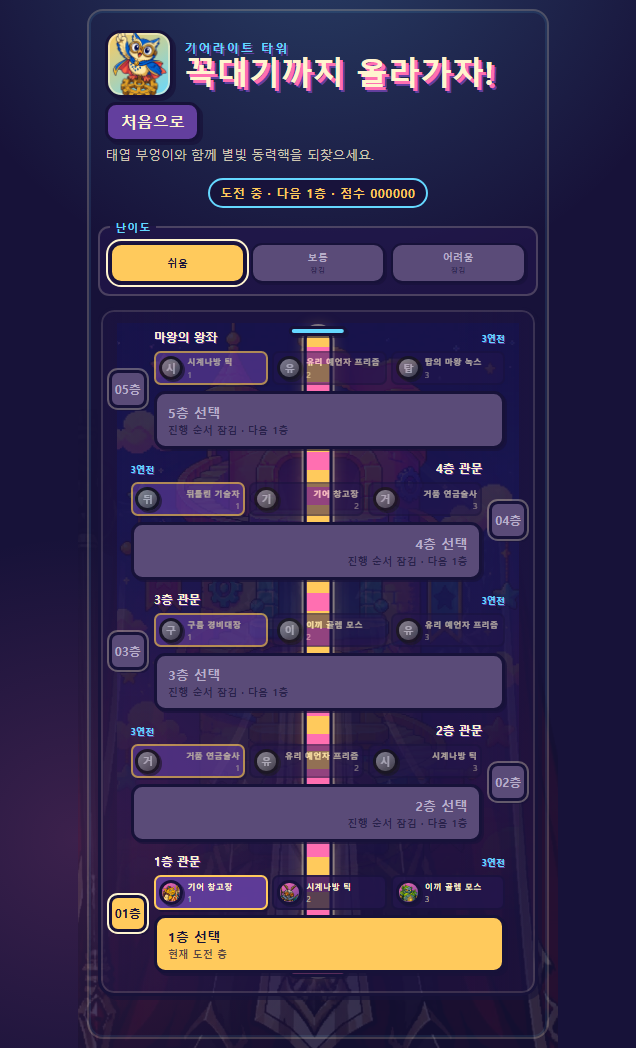
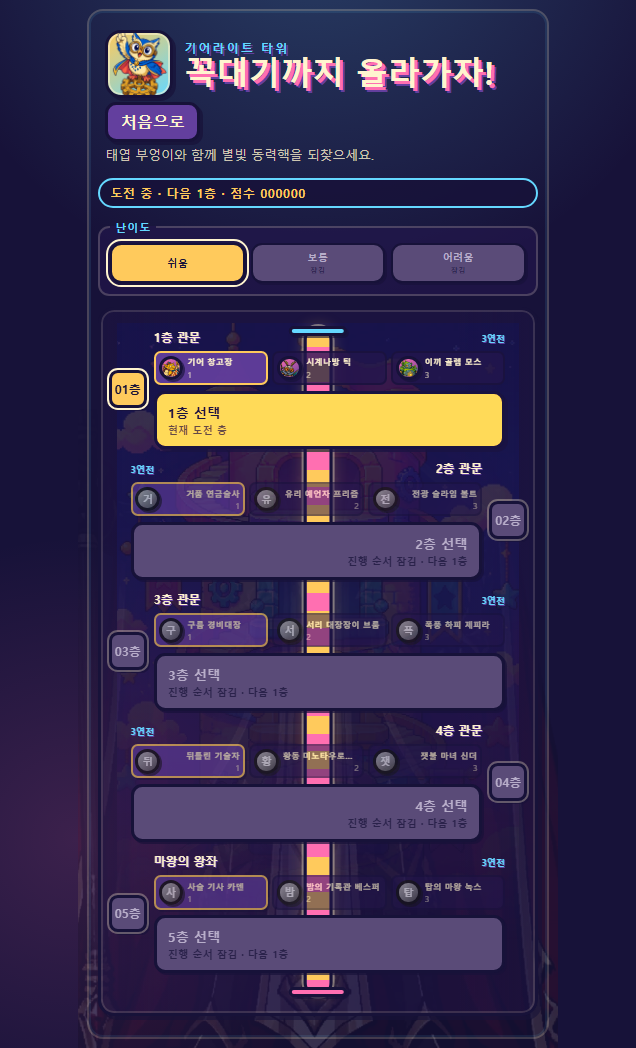
fix: start tower at floor one

diff --git a/src/ui/screens/TowerScreen.tsx b/src/ui/screens/TowerScreen.tsx
@@ -120,67 +120,70 @@ export function TowerScreen({
       </fieldset>
       <div
         aria-label="타워 층 선택"
-        className="floor-list tower-route tower-route--ascending"
+        className="floor-list tower-route tower-route--ascending tower-route--scrollable"
         data-testid="tower-route"
+        tabIndex={0}
       >
-        <ScreenBackdrop
-          className="screen-backdrop--tower-route"
-          image={commonAssets?.towerBackdrop}
-        />
-        <span aria-hidden="true" className="tower-route__shaft" />
-        {FLOORS.map((floor, index) => {
-          const historicallyUnlocked = floor <= activeProgress.highestUnlockedFloor;
-          const unlocked = historicallyUnlocked && (!runActive || floor === requiredFloor);
-          const cleared = activeProgress.clearedFloors[floor];
-          const status = runActive
-            ? floor === requiredFloor ? '현재 도전 층' : `진행 순서 잠김 · 다음 ${requiredFloor}층`
-            : cleared ? '클리어 완료 · 재도전 가능' : unlocked ? '도전 가능' : '잠김';
-          const statusId = `floor-${floor}-status`;
-          const floorContinuation = continuation?.kind === 'floor'
-            && continuation.floor === floor
-            ? continuation
-            : null;
-          const owlContinuation = continuation?.kind === 'owl' && floor === 5;
-          const actionLabel = floorContinuation !== null
-            ? `${floor}층 ${floorContinuation.encounterIndex + 1}번째 상대부터 계속`
-            : owlContinuation
-              ? '최종전 계속'
-              : `${floor}층 선택`;
-          return (
-            <div
-              className={`tower-node tower-node--${index % 2 === 0 ? 'left' : 'right'} ${
-                cleared ? 'tower-node--cleared' : unlocked ? 'tower-node--open' : 'tower-node--locked'
-              }`}
-              data-floor={floor}
-              key={floor}
-            >
-              <span aria-hidden="true" className="tower-node__marker">{String(floor).padStart(2, '0')}층</span>
-              <div className="tower-node__card">
-                <div className="tower-node__title">
-                  <span>{floor === 5 ? '마왕의 왕좌' : `${floor}층 관문`}</span>
-                  <small>3연전</small>
+        <div className="tower-route__content">
+          <ScreenBackdrop
+            className="screen-backdrop--tower-route"
+            image={commonAssets?.towerBackdrop}
+          />
+          <span aria-hidden="true" className="tower-route__shaft" />
+          {FLOORS.map((floor, index) => {
+            const historicallyUnlocked = floor <= activeProgress.highestUnlockedFloor;
+            const unlocked = historicallyUnlocked && (!runActive || floor === requiredFloor);
+            const cleared = activeProgress.clearedFloors[floor];
+            const status = runActive
+              ? floor === requiredFloor ? '현재 도전 층' : `진행 순서 잠김 · 다음 ${requiredFloor}층`
+              : cleared ? '클리어 완료 · 재도전 가능' : unlocked ? '도전 가능' : '잠김';
+            const statusId = `floor-${floor}-status`;
+            const floorContinuation = continuation?.kind === 'floor'
+              && continuation.floor === floor
+              ? continuation
+              : null;
+            const owlContinuation = continuation?.kind === 'owl' && floor === 5;
+            const actionLabel = floorContinuation !== null
+              ? `${floor}층 ${floorContinuation.encounterIndex + 1}번째 상대부터 계속`
+              : owlContinuation
+                ? '최종전 계속'
+                : `${floor}층 선택`;
+            return (
+              <div
+                className={`tower-node tower-node--${index % 2 === 0 ? 'left' : 'right'} ${
+                  cleared ? 'tower-node--cleared' : unlocked ? 'tower-node--open' : 'tower-node--locked'
+                }`}
+                data-floor={floor}
+                key={floor}
+              >
+                <span aria-hidden="true" className="tower-node__marker">{String(floor).padStart(2, '0')}층</span>
+                <div className="tower-node__card">
+                  <div className="tower-node__title">
+                    <span>{floor === 5 ? '마왕의 왕좌' : `${floor}층 관문`}</span>
+                    <small>3연전</small>
+                  </div>
+                  <CharacterStrip
+                    activeIndex={floorContinuation?.encounterIndex ?? 0}
+                    encounters={getFloorEncounters(floor)}
+                    rivals={commonAssets?.rivals ?? {}}
+                    unlocked={unlocked}
+                  />
+                  <button
+                    aria-describedby={statusId}
+                    aria-label={actionLabel}
+                    className="floor-card"
+                    disabled={!unlocked}
+                    onClick={() => onSelectFloor(floor)}
+                    type="button"
+                  >
+                    <span>{actionLabel}</span>
+                    <small id={statusId}>{status}</small>
+                  </button>
                 </div>
-                <CharacterStrip
-                  activeIndex={floorContinuation?.encounterIndex ?? 0}
-                  encounters={getFloorEncounters(floor)}
-                  rivals={commonAssets?.rivals ?? {}}
-                  unlocked={unlocked}
-                />
-                <button
-                  aria-describedby={statusId}
-                  aria-label={actionLabel}
-                  className="floor-card"
-                  disabled={!unlocked}
-                  onClick={() => onSelectFloor(floor)}
-                  type="button"
-                >
-                  <span>{actionLabel}</span>
-                  <small id={statusId}>{status}</small>
-                </button>
               </div>
-            </div>
-          );
-        })}
+            );
+          })}
+        </div>
       </div>
     </section>
   );

diff --git a/tests/e2e/app-flow.spec.ts b/tests/e2e/app-flow.spec.ts
@@ -139,6 +139,50 @@ test('shows a usable tower screen in under ten seconds', async ({ page }) => {
   await expect(page.getByRole('button', { name: '1층 선택' })).toBeEnabled();
 });
 
+test('starts at floor one and confines scrolling to the tower route', async ({ page }) => {
+  await seedReturningProfile(page, RETURNING_PROFILE);
+  await openTower(page);
+
+  const app = page.getByTestId('app-shell');
+  const route = page.getByTestId('tower-route');
+  const floorOne = route.locator('[data-floor="1"]');
+  const before = await route.evaluate((element) => {
+    const routeRect = element.getBoundingClientRect();
+    const firstRect = element.querySelector<HTMLElement>('[data-floor="1"]')!
+      .getBoundingClientRect();
+    const topFloor = [...element.querySelectorAll<HTMLElement>('[data-floor]')]
+      .sort((left, right) => left.getBoundingClientRect().top - right.getBoundingClientRect().top)
+      .at(0)?.dataset.floor ?? null;
+    const style = getComputedStyle(element);
+    const webkitScrollbar = getComputedStyle(element, '::-webkit-scrollbar');
+    return {
+      firstVisible: firstRect.bottom > routeRect.top && firstRect.top < routeRect.bottom,
+      overflowY: style.overflowY,
+      routeScrollable: element.scrollHeight > element.clientHeight,
+      scrollbarHidden: style.scrollbarWidth === 'none'
+        || webkitScrollbar.display === 'none'
+        || webkitScrollbar.width === '0px',
+      topFloor,
+    };
+  });
+
+  expect(before).toEqual({
+    firstVisible: true,
+    overflowY: 'auto',
+    routeScrollable: true,
+    scrollbarHidden: true,
+    topFloor: '1',
+  });
+  await expect(floorOne).toBeInViewport();
+
+  await route.evaluate((element) => {
+    element.scrollTop = element.scrollHeight;
+  });
+  await expect.poll(() => route.evaluate((element) => element.scrollTop)).toBeGreaterThan(0);
+  await expect(route.locator('[data-floor="5"]')).toBeInViewport();
+  expect(await app.evaluate((element) => element.scrollTop)).toBe(0);
+});
+
 test('resumes the same active run after visiting the title', async ({ page }) => {
   await seedReturningProfile(page, RETURNING_PROFILE);
   await openMatch(page);

diff --git a/src/ui/screens/screens.css b/src/ui/screens/screens.css
@@ -142,8 +142,12 @@
 }
 
 .tower-screen {
-  align-content: start;
+  display: flex;
+  height: 100dvh;
+  min-height: 0;
+  flex-direction: column;
   gap: 0.7rem;
+  overflow: hidden;
   padding-top: max(1.65rem, var(--native-close-exclusion-top, 10px));
   padding-bottom: 2rem;
 }
@@ -235,19 +239,38 @@
 
 .tower-route {
   position: relative;
-  display: flex;
-  flex-direction: column-reverse;
-  align-items: stretch;
-  gap: 0.7rem;
-  min-height: 31rem;
-  overflow: hidden;
-  padding: 1.2rem 0.5rem 1.25rem;
+  display: block;
+  flex: 1 1 auto;
+  min-height: 0;
+  overflow-x: hidden;
+  overflow-y: auto;
+  overscroll-behavior-y: contain;
+  padding: 0;
   border: 3px solid var(--arcade-ink);
   border-radius: 1rem;
   background:
     linear-gradient(90deg, rgb(23 18 57 / 18%), transparent 18% 82%, rgb(23 18 57 / 18%)),
     rgb(36 22 78 / 36%);
   box-shadow: inset 0 0 0 2px rgb(255 244 207 / 14%), 4px 4px 0 rgb(23 18 57 / 60%);
+  scrollbar-width: none;
+  touch-action: pan-y;
+  -webkit-overflow-scrolling: touch;
+}
+
+.tower-route::-webkit-scrollbar {
+  display: none;
+  width: 0;
+  height: 0;
+}
+
+.tower-route__content {
+  position: relative;
+  display: flex;
+  min-height: 100%;
+  flex-direction: column;
+  align-items: stretch;
+  gap: 0.7rem;
+  padding: 1.2rem 0.5rem 1.25rem;
 }
 
 .screen-backdrop--tower-route {
@@ -293,8 +316,8 @@
 .tower-route__shaft::before { top: -0.2rem; }
 .tower-route__shaft::after { bottom: -0.2rem; background: var(--arcade-pink); }
 
-.tower-route > .tower-node,
-.tower-route > .tower-route__shaft {
+.tower-route__content > .tower-node,
+.tower-route__content > .tower-route__shaft {
   z-index: 1;
 }
 

diff --git a/src/ui/screens/TowerScreen.test.tsx b/src/ui/screens/TowerScreen.test.tsx
@@ -108,6 +108,9 @@ describe('TowerScreen', () => {
 
     const route = screen.getByTestId('tower-route');
     expect(route).toHaveClass('tower-route--ascending');
+    expect(route).toHaveClass('tower-route--scrollable');
+    expect(route).toHaveAttribute('tabindex', '0');
+    expect(route.querySelector('.tower-route__content')).toBeInTheDocument();
     expect(route.querySelector('.tower-route__shaft')).toBeInTheDocument();
     expect([...route.querySelectorAll<HTMLElement>('[data-floor]')].map((node) => node.dataset.floor))
       .toEqual(['1', '2', '3', '4', '5']);
